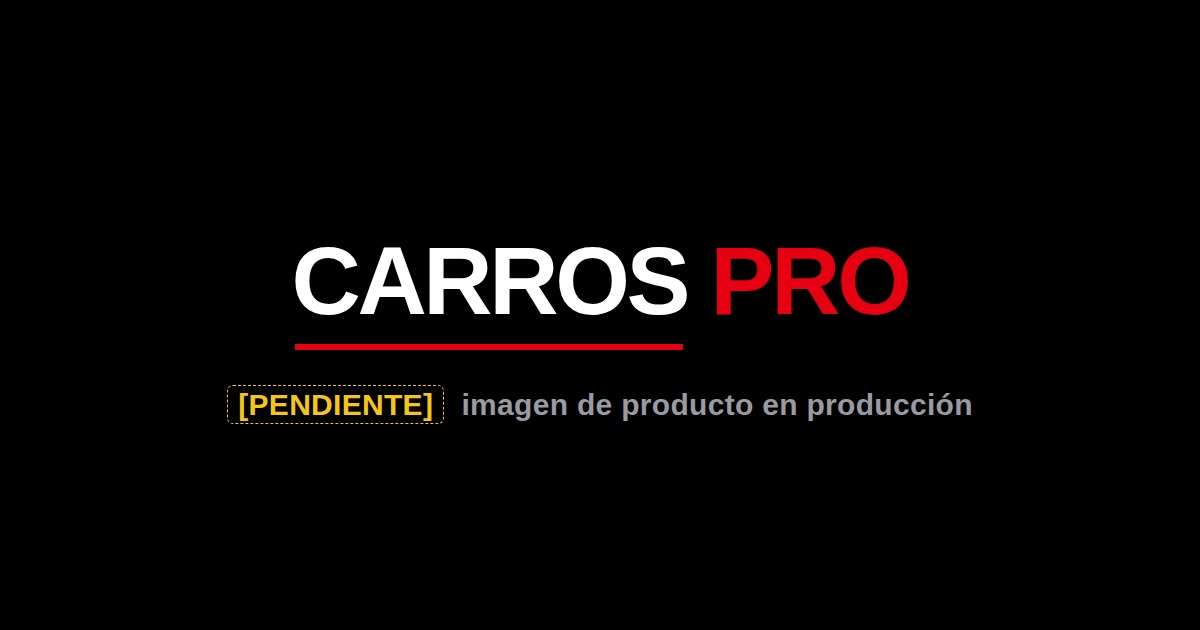
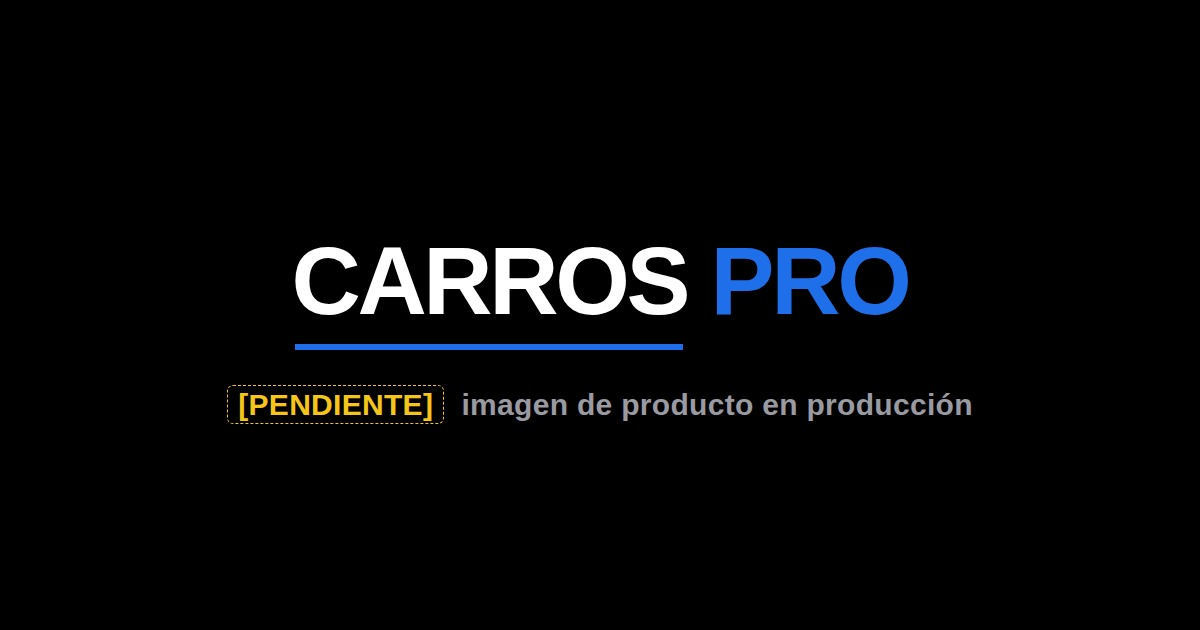
ORDEN CA3: cinta de 57 marcas de carros LatAm + acento azul automotriz
(A) Cinta de marcas: reemplazadas las 16 chips [PENDIENTE] por 57 marcas
reales (Chevrolet...Tesla, orden por frecuencia, repartidas 29/28 entre
las 2 filas); ninguna marca de moto quedaba en el HTML salvo comentarios
de código, también limpiados.

(B) Paleta: --red/--red-tx (#E60012/#FF2A3C, heredado de Yamaha/motos) ->
--acc/--acc-tx (#1F6FEB/#9CC2FF); glows y rgba() recoloreados manteniendo
su alpha original; dot "rec" del mockup (#ff4d5e) y el rojo #e10600 de
logo-mark.svg + favicon-32.png + apple-touch-icon.png + favicon.ico
(pixel-exact swap) también pasados a azul; og.jpg regenerado con
Playwright sobre el mismo HTML fuente, solo cambiando el color. --blue
(#3B72C8, bordes secundarios) no se tocó: ya era azul. CTA blanco sobre
#1F6FEB: ~4.64:1 AA.

QA 390/1440 sin errores de consola, shots en vg/shots-ca3/.

Changed region(s): [[0.5858, 0.3921, 0.7708, 0.5127], [0.2467, 0.5429, 0.5858, 0.573]]

diff --git a/pack-scroll/index.html b/pack-scroll/index.html
@@ -23,12 +23,11 @@
   :root{
     --bg:#000; --panel:#101012; --panel2:#17171a; --line:#28282d;
     --tx:#ffffff; --mut:#9a9aa3; --dim:#6e6e77;
-    /* ORDEN AZ1: acentos Yamaha. --red para RELLENOS (botones/barra, texto blanco
-       encima da 4.8:1 AA); --red-tx para TEXTO rojo directo sobre negro/panel (el
-       rojo de marca a secas no llega a 4.5:1 en texto chico, este sí: 5.1-5.6:1).
-       --blue ya aclarado desde el azul racing real (~#1E50A0, 2.4-2.7:1, no pasaba)
-       a uno que sí da AA en texto grande/UI (4.0-4.4:1 sobre negro/panel). */
-    --red:#E60012; --red-tx:#FF2A3C; --blue:#3B72C8;
+    /* ORDEN CA3: acento azul automotriz (reemplaza el rojo Yamaha heredado de motos).
+       --acc para RELLENOS (botones/barra; blanco encima da ~4.64:1 AA, pasa normal y
+       grande); --acc-tx para TEXTO acento directo sobre negro/panel (11.6:1, sobra AA).
+       --blue (secundario, bordes de pill/reloj/aviso) no se tocó: ya era azul. */
+    --acc:#1F6FEB; --acc-tx:#9CC2FF; --blue:#3B72C8;
     --radius:16px; --max:1080px;
     --disp:"Inter Tight","Inter",-apple-system,BlinkMacSystemFont,"Segoe UI",Roboto,Arial,sans-serif;
     --sans:"Inter",-apple-system,BlinkMacSystemFont,"Segoe UI",Roboto,Arial,sans-serif;
@@ -47,10 +46,10 @@
   .btn.big{font-size:1.2rem;padding:20px 46px}
   .btn.ghost{background:transparent;color:#fff;border:1.5px solid #3a3a40;box-shadow:none}
   .btn.ghost:hover{border-color:#fff;box-shadow:none}
-  /* ORDEN AZ1: solo los 3 botones DE COMPRA en rojo Yamaha (el del nav queda blanco/negro
-     como antes); blanco sobre --red da 4.8:1 AA */
-  #btn-hero,#btn-pago,.buybar .btn{background:var(--red);color:#fff;box-shadow:0 10px 44px -10px rgba(230,0,18,.45)}
-  #btn-hero:hover,#btn-pago:hover,.buybar .btn:hover{box-shadow:0 16px 56px -10px rgba(230,0,18,.6)}
+  /* ORDEN CA3: solo los 3 botones DE COMPRA en azul automotriz (el del nav queda blanco/negro
+     como antes); blanco sobre --acc da ~4.64:1 AA */
+  #btn-hero,#btn-pago,.buybar .btn{background:var(--acc);color:#fff;box-shadow:0 10px 44px -10px rgba(31,111,235,.45)}
+  #btn-hero:hover,#btn-pago:hover,.buybar .btn:hover{box-shadow:0 16px 56px -10px rgba(31,111,235,.6)}
 
   /* MARCA (marca de corte estilo CapCut) */
   .logo{display:flex;align-items:center;gap:10px;font-family:var(--disp);font-weight:900;font-size:1.18rem;letter-spacing:-.04em}
@@ -64,9 +63,9 @@
   nav .btn{padding:10px 22px;font-size:.9rem}
 
   /* HERO */
-  /* ORDEN AZ9 (Esteban): glow rojo suave detrás del celular, además del glow blanco
+  /* ORDEN AZ9/CA3: glow azul suave detrás del celular, además del glow blanco
      general que ya había (radial a 50%/0% sin tocar) */
-  header{position:relative;padding:74px 0 60px;background:radial-gradient(55% 55% at 82% 32%,rgba(230,0,18,.14),transparent 70%),radial-gradient(85% 60% at 50% 0%,rgba(255,255,255,.07),transparent 70%)}
+  header{position:relative;padding:74px 0 60px;background:radial-gradient(55% 55% at 82% 32%,rgba(31,111,235,.14),transparent 70%),radial-gradient(85% 60% at 50% 0%,rgba(255,255,255,.07),transparent 70%)}
   /* ORDEN AZ1: nombro las 6 piezas del hero por grid-area en vez de mover el DOM, así
      desktop sigue siendo 2 columnas (device ocupa las 5 filas de texto, centrado igual
      que antes) y el móvil solo cambia el ORDEN VISUAL vía @media, sin duplicar markup.
@@ -86,7 +85,7 @@
   .pill b{color:#fff}
   header h1{font-size:clamp(2.2rem,6vw,3.8rem);margin-bottom:18px}
   header h1 .cut{position:relative;display:inline-block}
-  header h1 .cut::after{content:"";position:absolute;left:0;right:0;bottom:.06em;height:.14em;background:var(--red);transform:skewX(-18deg)}
+  header h1 .cut::after{content:"";position:absolute;left:0;right:0;bottom:.06em;height:.14em;background:var(--acc);transform:skewX(-18deg)}
   header p.sub{font-size:clamp(1.05rem,2.4vw,1.28rem);color:var(--mut);max-width:600px;margin:0 0 30px}
   header p.sub b{color:#fff}
   .cta-row{display:flex;gap:14px;align-items:center;flex-wrap:wrap}
@@ -99,9 +98,9 @@
 
   /* MOCKUP TELÉFONO (editor CapCut en blanco y negro) */
   .device{position:relative;width:262px;justify-self:center;filter:drop-shadow(0 34px 80px rgba(255,255,255,.14))}
-  /* ORDEN AZ9: glow rojo suave detrás del celular, dentro del mismo contexto de apilado
+  /* ORDEN AZ9/CA3: glow azul suave detrás del celular, dentro del mismo contexto de apilado
      que crea el filter de arriba (por eso basta con z-index:-1, no hace falta tocar nada más) */
-  .device::before{content:"";position:absolute;inset:-36px;z-index:-1;border-radius:50%;background:radial-gradient(60% 60% at 50% 46%,rgba(230,0,18,.38),transparent 72%);filter:blur(4px);pointer-events:none}
+  .device::before{content:"";position:absolute;inset:-36px;z-index:-1;border-radius:50%;background:radial-gradient(60% 60% at 50% 46%,rgba(31,111,235,.38),transparent 72%);filter:blur(4px);pointer-events:none}
   .phone{background:#0a0a0c;border:2px solid #2e2e34;border-radius:42px;padding:11px;position:relative}
   .phone::before{content:"";position:absolute;top:14px;left:50%;transform:translateX(-50%);width:80px;height:6px;border-radius:99px;background:#1c1c21;z-index:3}
   .screen{border-radius:32px;overflow:hidden;background:#000;border:1px solid #1e1e24}
@@ -110,7 +109,7 @@
   .pv .pv-poster{position:absolute;inset:0;width:100%;height:100%;object-fit:cover;z-index:0;filter:brightness(.85)}
   .pv .tag{position:absolute;z-index:2;top:12px;left:12px;font-size:.6rem;font-weight:800;color:#000;background:#fff;padding:4px 10px;border-radius:99px}
   .pv .rec{position:absolute;z-index:2;top:12px;right:12px;font-size:.58rem;font-weight:700;color:#fff;display:flex;align-items:center;gap:5px}
-  .pv .rec::before{content:"";width:7px;height:7px;border-radius:50%;background:#ff4d5e;box-shadow:0 0 8px #ff4d5e}
+  .pv .rec::before{content:"";width:7px;height:7px;border-radius:50%;background:var(--acc);box-shadow:0 0 8px var(--acc)}
   .pv .play{width:48px;height:48px;border-radius:50%;background:rgba(255,255,255,.16);backdrop-filter:blur(4px);border:1.5px solid rgba(255,255,255,.65);display:flex;align-items:center;justify-content:center}
   .pv .play::after{content:"";border-left:14px solid #fff;border-top:8px solid transparent;border-bottom:8px solid transparent;margin-left:3px}
   .tl{background:#0b0b0e;padding:10px 9px}
@@ -121,22 +120,22 @@
      video.play()/decode() a mano, que es justo lo que rompía en WebKit (ver AZ5). */
   .tl .thumbs{display:flex;gap:6px}
   .tl .thumb{position:relative;flex:1;height:34px;border-radius:7px;background-size:cover;background-position:center;overflow:hidden;opacity:.4;filter:grayscale(.4);animation:dvThumb 9s infinite}
-  .tl .thumb .fill{position:absolute;left:0;bottom:0;height:3px;width:0;background:var(--red);animation:dvFill 9s infinite}
+  .tl .thumb .fill{position:absolute;left:0;bottom:0;height:3px;width:0;background:var(--acc);animation:dvFill 9s infinite}
   .tl .t1{animation-delay:0s}.tl .t1 .fill{animation-delay:0s}
   .tl .t2{animation-delay:-3s}.tl .t2 .fill{animation-delay:-3s}
   .tl .t3{animation-delay:-6s}.tl .t3 .fill{animation-delay:-6s}
 
   /* CIFRAS */
-  /* ORDEN AZ9: grid 2x2 fijo (antes 4 en fila en desktop, 2x2 solo en mobile) + número
-     grande en rojo (antes azul solo en las 2 primeras, desde AZ1) — el azul de marca sigue
-     vivo en otras piezas del hero (pill, glow del reloj más abajo en #comprar) */
+  /* ORDEN AZ9/CA3: grid 2x2 fijo (antes 4 en fila en desktop, 2x2 solo en mobile) + número
+     grande en azul automotriz — el mismo azul vive en otras piezas del hero (pill, glow
+     del reloj más abajo en #comprar) */
   .badges{display:grid;grid-template-columns:repeat(2,1fr);gap:14px;margin:52px auto 0;max-width:480px}
   .badge{background:var(--panel);border:1px solid var(--line);border-radius:var(--radius);padding:22px 12px;text-align:center}
-  .badge .n{font-family:var(--disp);font-size:clamp(1.6rem,4vw,2.3rem);font-weight:900;line-height:1;letter-spacing:-.03em;color:var(--red-tx)}
+  .badge .n{font-family:var(--disp);font-size:clamp(1.6rem,4vw,2.3rem);font-weight:900;line-height:1;letter-spacing:-.03em;color:var(--acc-tx)}
   .badge .l{color:var(--mut);font-size:.82rem;margin-top:7px}
 
   section{padding:66px 0}
-  .eyebrow{color:var(--red-tx);font-weight:800;font-size:.8rem;text-transform:uppercase;letter-spacing:.14em;margin-bottom:12px}
+  .eyebrow{color:var(--acc-tx);font-weight:800;font-size:.8rem;text-transform:uppercase;letter-spacing:.14em;margin-bottom:12px}
   h2.title{font-size:clamp(1.8rem,4.5vw,2.7rem);margin-bottom:14px}
   .lead{color:var(--mut);font-size:1.08rem;max-width:640px;margin-bottom:8px}
   .lead b{color:#fff}
@@ -343,7 +342,7 @@
   .dp-stage{position:relative;max-width:900px;margin:26px auto 0}
   .dp-stage canvas{display:block;width:100%;height:auto;aspect-ratio:1152/768}
   .dp-bar{max-width:280px;height:3px;border-radius:99px;background:#1c1c21;margin:18px auto 0;overflow:hidden}
-  .dp-bar i{display:block;height:100%;width:calc(var(--t,0)*100%);background:var(--red)}
+  .dp-bar i{display:block;height:100%;width:calc(var(--t,0)*100%);background:var(--acc)}
   .dp-piezas{list-style:none;display:flex;flex-wrap:wrap;gap:8px;justify-content:center;margin:12px auto 0;max-width:640px;padding:0 20px}
   .dp-piezas li{background:var(--panel);border:1px solid var(--line);border-radius:999px;padding:7px 15px;font-family:var(--disp);font-weight:800;font-size:.8rem}
   @media(max-width:820px){.dp-stage{width:100%;margin-left:0;padding:0 4px}}
@@ -503,18 +502,17 @@ document.addEventListener('click',function(ev){
 
   <div class="marcas">
     <p class="marcas-lb">Compatible con <span class="pend">[PENDIENTE]</span> marcas</p>
-    <!-- CA1: la cinta de logos de motos (Honda, Yamaha, KTM...) no aplica a carros y no hay
-         lista real de marcas de carros todavía — placeholder en texto, misma animación/CSS
-         (.cinta-tx ya soporta ítems de solo texto, sin tocar ninguna regla). -->
+    <!-- CA3: marcas reales de carros LatAm (sin enfoque Brasil), 57 en total repartidas en
+         las 2 cintas (29 + 28), orden por frecuencia; misma animación/CSS de .cinta-tx. -->
     <div class="cinta"><div class="cinta-track"><span class="cinta-grp">
-      <span class="cinta-it"><span class="cinta-tx pend">[PENDIENTE]</span></span><span class="cinta-it"><span class="cinta-tx pend">[PENDIENTE]</span></span><span class="cinta-it"><span class="cinta-tx pend">[PENDIENTE]</span></span><span class="cinta-it"><span class="cinta-tx pend">[PENDIENTE]</span></span><span class="cinta-it"><span class="cinta-tx pend">[PENDIENTE]</span></span><span class="cinta-it"><span class="cinta-tx pend">[PENDIENTE]</span></span><span class="cinta-it"><span class="cinta-tx pend">[PENDIENTE]</span></span><span class="cinta-it"><span class="cinta-tx pend">[PENDIENTE]</span></span>
+      <span class="cinta-it"><span class="cinta-tx">Chevrolet</span></span><span class="cinta-it"><span class="cinta-tx">Toyota</span></span><span class="cinta-it"><span class="cinta-tx">Nissan</span></span><span class="cinta-it"><span class="cinta-tx">Kia</span></span><span class="cinta-it"><span class="cinta-tx">Hyundai</span></span><span class="cinta-it"><span class="cinta-tx">Renault</span></span><span class="cinta-it"><span class="cinta-tx">Volkswagen</span></span><span class="cinta-it"><span class="cinta-tx">Mazda</span></span><span class="cinta-it"><span class="cinta-tx">Ford</span></span><span class="cinta-it"><span class="cinta-tx">Suzuki</span></span><span class="cinta-it"><span class="cinta-tx">Mitsubishi</span></span><span class="cinta-it"><span class="cinta-tx">Honda</span></span><span class="cinta-it"><span class="cinta-tx">Peugeot</span></span><span class="cinta-it"><span class="cinta-tx">Citroën</span></span><span class="cinta-it"><span class="cinta-tx">Fiat</span></span><span class="cinta-it"><span class="cinta-tx">Jeep</span></span><span class="cinta-it"><span class="cinta-tx">RAM</span></span><span class="cinta-it"><span class="cinta-tx">Dodge</span></span><span class="cinta-it"><span class="cinta-tx">Chrysler</span></span><span class="cinta-it"><span class="cinta-tx">Subaru</span></span><span class="cinta-it"><span class="cinta-tx">Isuzu</span></span><span class="cinta-it"><span class="cinta-tx">BYD</span></span><span class="cinta-it"><span class="cinta-tx">Chery</span></span><span class="cinta-it"><span class="cinta-tx">JAC</span></span><span class="cinta-it"><span class="cinta-tx">Great Wall</span></span><span class="cinta-it"><span class="cinta-tx">Haval</span></span><span class="cinta-it"><span class="cinta-tx">MG</span></span><span class="cinta-it"><span class="cinta-tx">Changan</span></span><span class="cinta-it"><span class="cinta-tx">Geely</span></span>
     </span><span class="cinta-grp" aria-hidden="true">
-      <span class="cinta-it"><span class="cinta-tx pend">[PENDIENTE]</span></span><span class="cinta-it"><span class="cinta-tx pend">[PENDIENTE]</span></span><span class="cinta-it"><span class="cinta-tx pend">[PENDIENTE]</span></span><span class="cinta-it"><span class="cinta-tx pend">[PENDIENTE]</span></span><span class="cinta-it"><span class="cinta-tx pend">[PENDIENTE]</span></span><span class="cinta-it"><span class="cinta-tx pend">[PENDIENTE]</span></span><span class="cinta-it"><span class="cinta-tx pend">[PENDIENTE]</span></span><span class="cinta-it"><span class="cinta-tx pend">[PENDIENTE]</span></span>
+      <span class="cinta-it"><span class="cinta-tx">Chevrolet</span></span><span class="cinta-it"><span class="cinta-tx">Toyota</span></span><span class="cinta-it"><span class="cinta-tx">Nissan</span></span><span class="cinta-it"><span class="cinta-tx">Kia</span></span><span class="cinta-it"><span class="cinta-tx">Hyundai</span></span><span class="cinta-it"><span class="cinta-tx">Renault</span></span><span class="cinta-it"><span class="cinta-tx">Volkswagen</span></span><span class="cinta-it"><span class="cinta-tx">Mazda</span></span><span class="cinta-it"><span class="cinta-tx">Ford</span></span><span class="cinta-it"><span class="cinta-tx">Suzuki</span></span><span class="cinta-it"><span class="cinta-tx">Mitsubishi</span></span><span class="cinta-it"><span class="cinta-tx">Honda</span></span><span class="cinta-it"><span class="cinta-tx">Peugeot</span></span><span class="cinta-it"><span class="cinta-tx">Citroën</span></span><span class="cinta-it"><span class="cinta-tx">Fiat</span></span><span class="cinta-it"><span class="cinta-tx">Jeep</span></span><span class="cinta-it"><span class="cinta-tx">RAM</span></span><span class="cinta-it"><span class="cinta-tx">Dodge</span></span><span class="cinta-it"><span class="cinta-tx">Chrysler</span></span><span class="cinta-it"><span class="cinta-tx">Subaru</span></span><span class="cinta-it"><span class="cinta-tx">Isuzu</span></span><span class="cinta-it"><span class="cinta-tx">BYD</span></span><span class="cinta-it"><span class="cinta-tx">Chery</span></span><span class="cinta-it"><span class="cinta-tx">JAC</span></span><span class="cinta-it"><span class="cinta-tx">Great Wall</span></span><span class="cinta-it"><span class="cinta-tx">Haval</span></span><span class="cinta-it"><span class="cinta-tx">MG</span></span><span class="cinta-it"><span class="cinta-tx">Changan</span></span><span class="cinta-it"><span class="cinta-tx">Geely</span></span>
     </span></div></div>
     <div class="cinta cinta-rev"><div class="cinta-track"><span class="cinta-grp">
-      <span class="cinta-it"><span class="cinta-tx pend">[PENDIENTE]</span></span><span class="cinta-it"><span class="cinta-tx pend">[PENDIENTE]</span></span><span class="cinta-it"><span class="cinta-tx pend">[PENDIENTE]</span></span><span class="cinta-it"><span class="cinta-tx pend">[PENDIENTE]</span></span><span class="cinta-it"><span class="cinta-tx pend">[PENDIENTE]</span></span><span class="cinta-it"><span class="cinta-tx pend">[PENDIENTE]</span></span><span class="cinta-it"><span class="cinta-tx pend">[PENDIENTE]</span></span><span class="cinta-it"><span class="cinta-tx pend">[PENDIENTE]</span></span>
+      <span class="cinta-it"><span class="cinta-tx">JMC</span></span><span class="cinta-it"><span class="cinta-tx">Foton</span></span><span class="cinta-it"><span class="cinta-tx">DFSK</span></span><span class="cinta-it"><span class="cinta-tx">Jetour</span></span><span class="cinta-it"><span class="cinta-tx">Omoda</span></span><span class="cinta-it"><span class="cinta-tx">BAIC</span></span><span class="cinta-it"><span class="cinta-tx">Dongfeng</span></span><span class="cinta-it"><span class="cinta-tx">KGM SsangYong</span></span><span class="cinta-it"><span class="cinta-tx">Mercedes-Benz</span></span><span class="cinta-it"><span class="cinta-tx">BMW</span></span><span class="cinta-it"><span class="cinta-tx">Audi</span></span><span class="cinta-it"><span class="cinta-tx">Volvo</span></span><span class="cinta-it"><span class="cinta-tx">Land Rover</span></span><span class="cinta-it"><span class="cinta-tx">Lexus</span></span><span class="cinta-it"><span class="cinta-tx">Porsche</span></span><span class="cinta-it"><span class="cinta-tx">Mini</span></span><span class="cinta-it"><span class="cinta-tx">SEAT</span></span><span class="cinta-it"><span class="cinta-tx">Cupra</span></span><span class="cinta-it"><span class="cinta-tx">Alfa Romeo</span></span><span class="cinta-it"><span class="cinta-tx">Jaguar</span></span><span class="cinta-it"><span class="cinta-tx">GMC</span></span><span class="cinta-it"><span class="cinta-tx">Cadillac</span></span><span class="cinta-it"><span class="cinta-tx">Buick</span></span><span class="cinta-it"><span class="cinta-tx">Lincoln</span></span><span class="cinta-it"><span class="cinta-tx">Acura</span></span><span class="cinta-it"><span class="cinta-tx">Infiniti</span></span><span class="cinta-it"><span class="cinta-tx">Hino</span></span><span class="cinta-it"><span class="cinta-tx">Tesla</span></span>
     </span><span class="cinta-grp" aria-hidden="true">
-      <span class="cinta-it"><span class="cinta-tx pend">[PENDIENTE]</span></span><span class="cinta-it"><span class="cinta-tx pend">[PENDIENTE]</span></span><span class="cinta-it"><span class="cinta-tx pend">[PENDIENTE]</span></span><span class="cinta-it"><span class="cinta-tx pend">[PENDIENTE]</span></span><span class="cinta-it"><span class="cinta-tx pend">[PENDIENTE]</span></span><span class="cinta-it"><span class="cinta-tx pend">[PENDIENTE]</span></span><span class="cinta-it"><span class="cinta-tx pend">[PENDIENTE]</span></span><span class="cinta-it"><span class="cinta-tx pend">[PENDIENTE]</span></span>
+      <span class="cinta-it"><span class="cinta-tx">JMC</span></span><span class="cinta-it"><span class="cinta-tx">Foton</span></span><span class="cinta-it"><span class="cinta-tx">DFSK</span></span><span class="cinta-it"><span class="cinta-tx">Jetour</span></span><span class="cinta-it"><span class="cinta-tx">Omoda</span></span><span class="cinta-it"><span class="cinta-tx">BAIC</span></span><span class="cinta-it"><span class="cinta-tx">Dongfeng</span></span><span class="cinta-it"><span class="cinta-tx">KGM SsangYong</span></span><span class="cinta-it"><span class="cinta-tx">Mercedes-Benz</span></span><span class="cinta-it"><span class="cinta-tx">BMW</span></span><span class="cinta-it"><span class="cinta-tx">Audi</span></span><span class="cinta-it"><span class="cinta-tx">Volvo</span></span><span class="cinta-it"><span class="cinta-tx">Land Rover</span></span><span class="cinta-it"><span class="cinta-tx">Lexus</span></span><span class="cinta-it"><span class="cinta-tx">Porsche</span></span><span class="cinta-it"><span class="cinta-tx">Mini</span></span><span class="cinta-it"><span class="cinta-tx">SEAT</span></span><span class="cinta-it"><span class="cinta-tx">Cupra</span></span><span class="cinta-it"><span class="cinta-tx">Alfa Romeo</span></span><span class="cinta-it"><span class="cinta-tx">Jaguar</span></span><span class="cinta-it"><span class="cinta-tx">GMC</span></span><span class="cinta-it"><span class="cinta-tx">Cadillac</span></span><span class="cinta-it"><span class="cinta-tx">Buick</span></span><span class="cinta-it"><span class="cinta-tx">Lincoln</span></span><span class="cinta-it"><span class="cinta-tx">Acura</span></span><span class="cinta-it"><span class="cinta-tx">Infiniti</span></span><span class="cinta-it"><span class="cinta-tx">Hino</span></span><span class="cinta-it"><span class="cinta-tx">Tesla</span></span>
     </span></div></div>
   </div>
 
